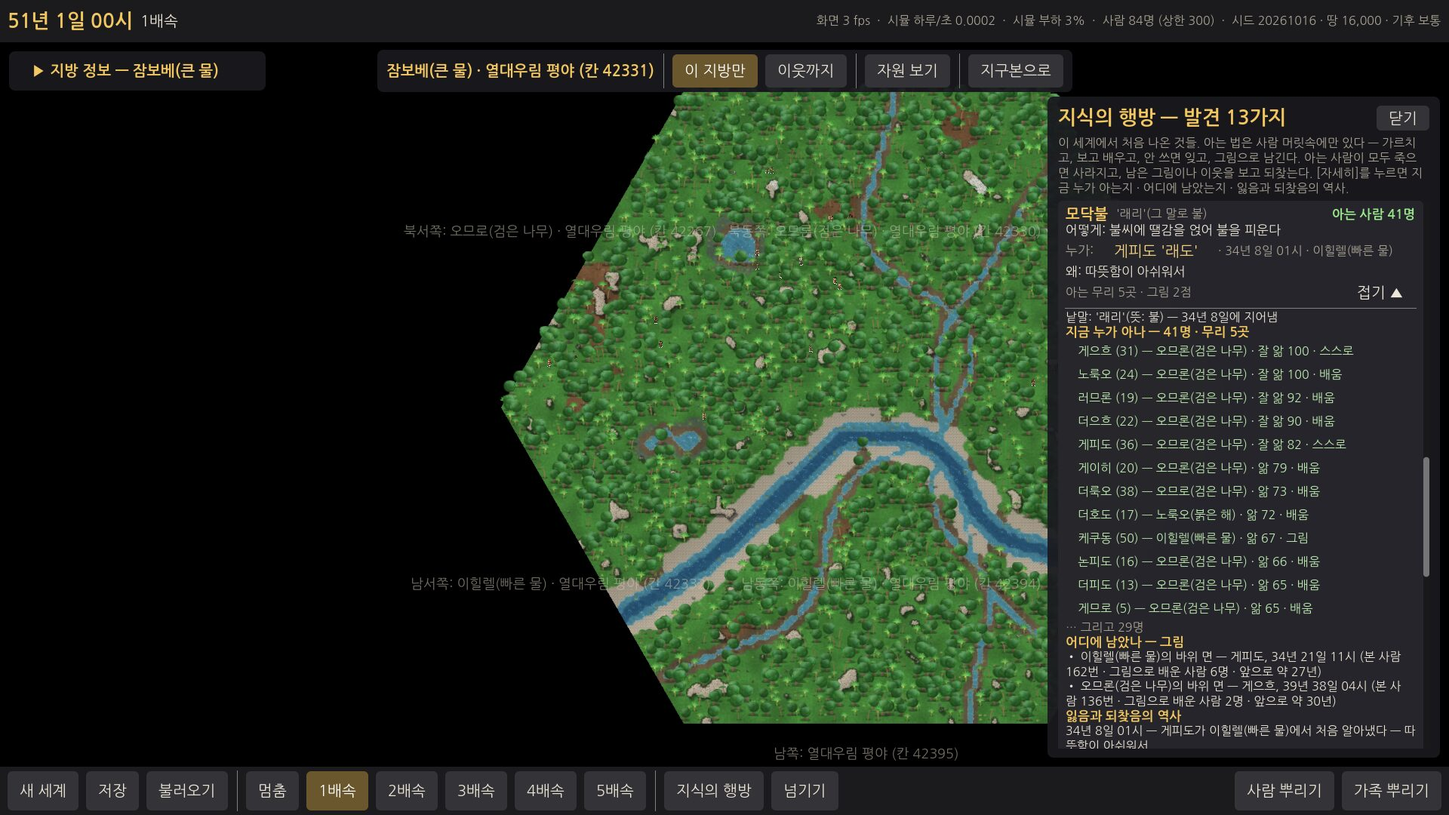
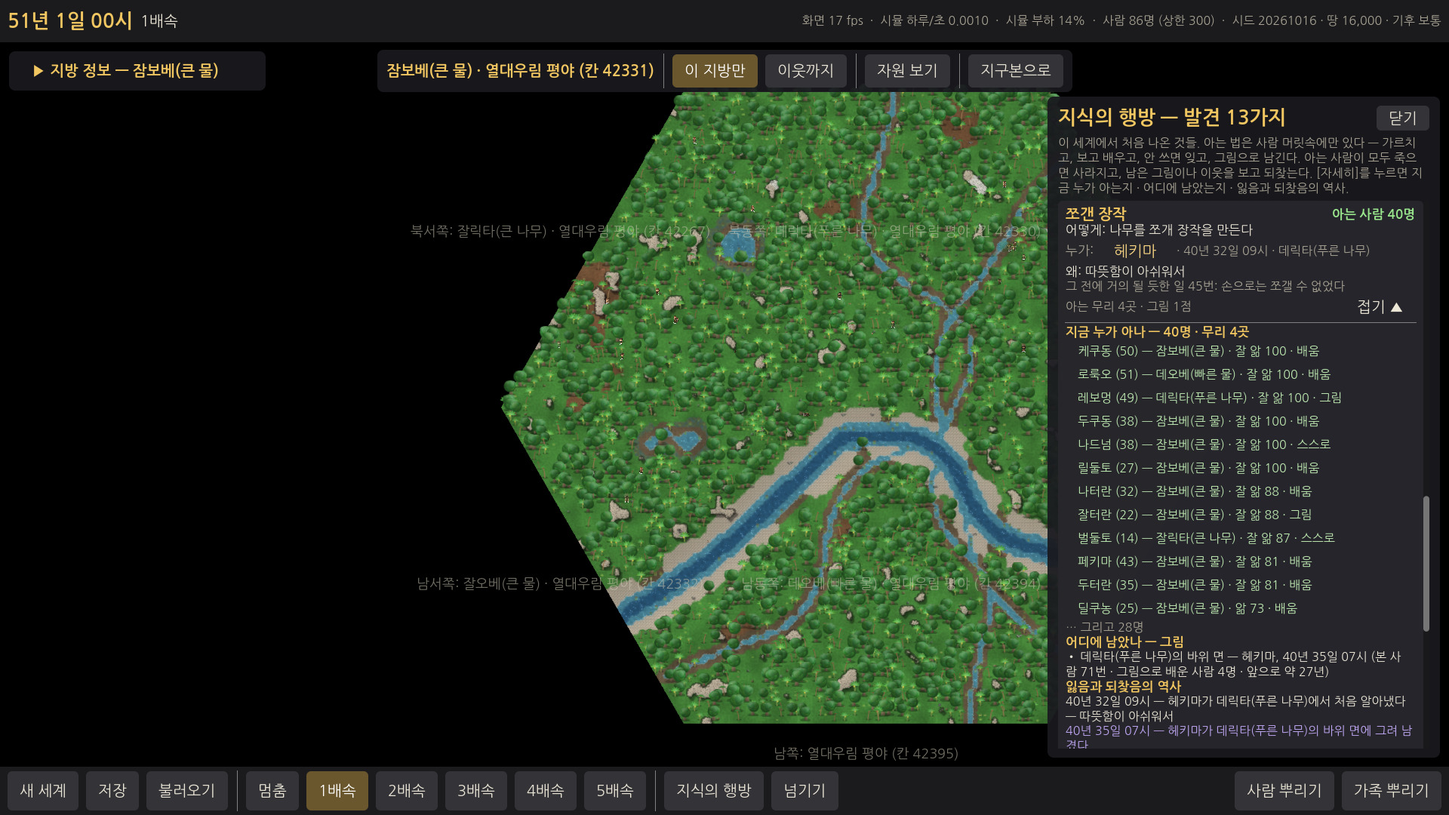
E5 두 번째 판: 보고서 · 고치기 전/뒤 측정(시드 4개) · 구리 마을 측정 · 장면 다시 만듦 · 스크린샷 · 읽어보기
Claude-Session: https://claude.ai/code/session_0154FNMyeDaocQUXgkpaLpys

diff --git a/tools/bench/SceneBench.cs b/tools/bench/SceneBench.cs
@@ -55,7 +55,7 @@ public static class SceneBench
         if (fire > 0) Save("first-fire.wtw", "첫 불 직전", "따뜻한 숲의 세 가족 — 이틀 뒤에 누군가 처음으로 모닥불을 피운다. 1배속으로 지켜보세요", fire - 2 * GameTime.TicksPerDay);
         long pot = FirstTick("pot", 150);
         if (pot > 0) Save("first-pot.wtw", "첫 토기 직전", "이틀 뒤에 누군가 처음으로 진흙 그릇을 불에 구워 토기를 만든다", pot - 2 * GameTime.TicksPerDay);
-        Save("village-50y.wtw", "50년 뒤 마을", "세 가족이 50년을 산 뒤의 마을 — 가르치고 · 배우고 · 그림으로 남기는 모습. [지식의 행방] 창과 카드의 [지식]을 보세요", 50 * GameTime.TicksPerYear);
+        Save("village-50y.wtw", "50년 뒤 마을", "세 가족이 50년을 산 뒤의 마을 — 가르치고 · 배우는 모습. [지식의 행방] 창과 카드의 [지식]을 보세요", 50 * GameTime.TicksPerYear);
         }
         if (!onlyArtisan) CopperScene(outDir, seed, index);
         // (E5) 마지막 장인이 늙음: 세계에서 그 법을 아는 사람이 셋 이하이고 모두 45살 넘은 때 가운데 가장 "끊기기 쉬운" 때

diff --git a/docs/reports/E5.md b/docs/reports/E5.md
@@ -1,18 +1,64 @@
-# E5 지식 — 보고서
+# E5 지식 — 보고서 (두 번째 판)
 
 ## 쉬운 말 다섯 줄
 1. **아는 법은 이제 사람 머릿속에만 있습니다.** 아는 사람이 아이 · 가족 · 물어 온 사람에게 가르치고(한 번에 다 못 배우고 조금씩 쌓임), 곁에서 보고 따라 하기도 합니다. **말이 다르면 가르치기가 느려집니다**(막지는 않음).
-2. **오래 안 쓰면 흐려지고 결국 잊습니다**(2년 넘게 안 쓰면 흐려지기 시작, 늙으면 조금씩). 흐려지면 실패가 잦고, 다시 쓰거나 남에게 배우면 되살아납니다.
-3. **그림으로 남깁니다.** 나이 든 장인 · 무리에서 혼자 아는 사람은 숯 · 재 · 진흙으로 동굴 벽 · 바위 면 · 나무껍질에 그림을 그립니다. 그림은 말을 몰라도 조금은 알아봐서, **아는 사람이 다 죽어도 그림을 보고 되찾을 수 있습니다.**
+2. **오래 안 쓰면 흐려지고 결국 잊습니다** — **쉬운 법(불씨 · 마른 풀 · 장작 …)은 천천히, 어려운 법(구리)은 빨리.** 잊음이 절반 가까이 줄고, "잊어서 세계에서 사라짐"은 7번 → 0번(시드 4개 × 200년).
+3. **그림은 드물고 귀합니다.** 지식이 위태로울 때(늙은 장인 · 무리에서 혼자 아는 사람, 세계에서도 아는 사람이 아주 적을 때)만 숯 · 재 · 진흙으로 동굴 벽 · 바위 면에 그립니다(세계마다 200년에 10점 남짓). 그림은 말을 몰라도 알아봐서, 아는 사람이 다 죽어도 그림을 보고 되찾을 수 있습니다.
 4. **[지식의 행방] 창**(아래 막대, D 키)에서 발견마다 지금 누가 아는지(무리 · 아는 정도) · 어디에 그림이 남았는지 · 언제 어디서 끊기고 어떻게 되찾았는지를 봅니다. 지구본 **[지식] 지도**(I 키)는 그걸 아는 사람이 사는 땅을 금빛으로 칠합니다.
-5. 측정(시드 20개 중앙값): 무리에서 한 사람만 아는 법 **9.9%**(목표 ~17%) · 무리에서 끊긴 것을 되찾음 **59%**(목표 ~58%) · 되찾기까지 **2.4년**(목표 3년). **구리는 여전히 0/20** 입니다(억지로 맞추지 않음).
+5. 새 시험용 장면 **"구리 광맥 곁 마을"**(불 · 토기를 아는 세 가족)에서도 200년 동안 **구리는 0/4** — 한 번도 녹여 보지 않았습니다("반짝이는 돌" 바람이 드묾). 무리 단위 끊김 · 되찾음 알림은 ★(그 지방을 볼 때만)로 내렸습니다.
 
 ## 해 볼 것
-1. zip 을 풀고 **`WTW.exe`** 를 실행합니다. "PC 보호" 경고가 뜨면 **"추가 정보 → 실행"**. **[불러오기] → "마지막 장인이 늙음"** → 아래 **[넘기기] → 지식 · "세계에서 사라짐"** 을 누르고 기다려 보세요. 끝나면 "그동안 일어난 일"에 무엇이 사라졌는지(죽음 때문인지 · 잊어서인지 · 그림이 남았는지) 나옵니다.
+0. **(두 번째 판)** [불러오기] → **"구리 광맥 곁 마을"** → 땅에 들어가 초록빛 구리 광맥과 사람들을 보고, [넘기기] → 고른 물건 · 구리 덩이(1000년이 한도라 오래 걸리면 [그만]).
+1. zip 을 풀고 **`WTW.exe`** 를 실행합니다. "PC 보호" 경고가 뜨면 **"추가 정보 → 실행"**. **[불러오기] → "마지막 장인이 늙음"** → 아래 **[넘기기] → 지식 · "무리에서 끊김"**. 끝나면 [지식의 행방] 창에서 그 법의 "잃음과 되찾음의 역사"를 보세요. ("세계에서 사라짐"은 이제 잊음이 줄어 아주 오래 걸릴 수 있습니다 — [그만]으로 멈출 수 있음)
 2. 아래 **[지식의 행방]** → 발견 하나의 **[자세히 ▼]** → 지금 누가 아는지 · 그림이 어디 남았는지 · 잃음과 되찾음의 역사. 맨 아래 **[지구본 [지식] 지도로 보기]**.
 3. **[불러오기] → "50년 뒤 마을"** → 땅에 들어가 사람들 머리 위 표시를 보세요(손짓 = 가르치는 중, 물음표 = 배우는 중, 눈 = 그림을 보는 중). 가르치는 사람을 누르면 카드에 "왜"(아이라서 · 무리에 아는 사람이 적어서 · 물어 와서). 바위 곁의 **작은 그림**을 누르면 무엇을 그린 것 같은지 · 누가 · 언제.
 4. 지구본에서 **[지식]**(I) → 왼쪽 아래에서 발견(모닥불 · 토기 …)을 골라 아는 땅이 어디까지 퍼졌는지.
 5. (확인 부탁) [넘기기]가 끝난 뒤 지구본에서 **사람이 다 떠난 칸에 사람 표시가 남지 않는지** 봐 주세요(고친 버그).
+
+## 두 번째 판 — 요청 5가지를 고친 것 (2026-10-19)
+
+| # | 요청 | 고친 것 | 결과(시드 4개 × 따뜻한 땅 200년, 고치기 전 → 뒤) |
+|---|---|---|---|
+| 1 | 모닥불 낱말 '래리'가 위에는 "불", 아래에는 "물" | **틀린 곳은 없었다** — 두 줄이 같은 값(뜻 = "불")을 쓴다. 스크린샷을 크게 보면 둘 다 "불"인데, JPG 로 줄이며 작은 글씨의 "불"이 "물"처럼 뭉개졌다. 그래도 글씨를 한 단계 키웠고(아래 낱말 줄 +2), **낱말의 뜻이 어디서나 같은지 확인하는 테스트**를 넣었다([지식의 행방] 위 줄 · 펼친 줄 · 카드의 새 낱말 · 가르칠 때 말풍선 — 모두 "불", 토기는 다른 뜻) | 테스트 통과 |
+| 2 | 무리 단위 끊김 · 되찾음 알림을 ★ 로 | ★(그 지방을 볼 때만 · 오른쪽 아래 표시 "★ ✕" / "★"). [지식의 행방] 창의 "잃음과 되찾음의 역사"에는 그대로 다 남는다. 넘기기 끝 요약에는 수만 센다 | ★★ 200년에 1,536번(중앙값, 첫 판) → 이제 ★★ 는 154번 |
+| 3 | 쉬운 법은 천천히, 어려운 법은 빨리 잊게 | 법의 **단계 수**(재료 하나 + 둘째 재료 + 도구 + 불 세기 + "너무 ~하면 안 됨")로 나눔. **쉬움(2단계 이하 — 불씨 · 모닥불 · 마른 풀 · 장작 · 끈 · 그릇 빚기 · 돌칼 …)**: 4년 안 쓰면 흐려지기 시작, 엿새에 1, 늙어서 열엿새에 1 더. **보통(3 — 토기 굽기 · 숯 · 익히기 …)**: 그대로(2년 · 사흘 · 여드레). **어려움(4 이상 — 구리)**: 1년 반 · 이틀 · 닷새 | **잊음 81,262 → 45,059번**(시드 중앙값 21,301 → 11,440) · **잊어서 세계에서 사라짐 7번 → 0번**(세계에서 사라짐 12 → 0) |
+| 4 | 그림은 드물고 귀하게 · 보고 배우는 힘은 조금 세게 | 그림의 대부분(첫 판 120년 84점 중 80점)이 **호기심 많은 사람이 "아무 바람이나" 해 보는 실험에서 "남겨 두기"가 뽑혀** 생긴 것이었다 → 남길 까닭이 있을 때만. 그리는 까닭은 **지식이 위태로울 때만**: 늙은 장인(무리에 둘 이하 · 세계에 다섯 이하) · 무리에서 혼자 앎(세계에 셋 이하, 마흔 넘음). 아는 법으로 그릴 때는 **동굴 벽 · 바위 면만**(나무껍질은 늙은 장인이 다른 데가 없을 때만). 한 사람은 10년에 한 번, **같은 땅에서 같은 것은 40년에 한 번**(무리가 바뀌거나 그림이 바래도 기억). 그림을 보고 배우는 양 **6 → 12**(+ 영리함), 이틀에 한 번 | **그림 2,489 → 42점**(세계마다 600 → 10점) · 그림으로 다 배움 7,256 → 429명 · **"그림으로 되찾음" 3% → 0%** — 늘지 않았다(아래) |
+| 5 | 시험용 장면 "구리 광맥 곁 마을" · 200년에 구리가 나오나 | 구리 광맥이 드러난 따뜻한 지방을 찾아 광맥 곁(6~24타일)에 세 가족, 어른들은 처음부터 **불(부싯돌 불씨 · 모닥불) · 토기(빚기 · 말리기 · 굽기)** 를 안다. [불러오기]에 "구리 광맥 곁 마을"(시드 20261016 — 사바나, 칸 30304). 측정 도구 `people copper` | **구리 0/4** (아래) |
+
+### 4번 — "그림으로 되찾음"이 늘지 않은 까닭
+- 그림이 세계마다 10점 남짓으로 드물어지자, 무리에서 끊긴 법을 되찾을 때 그 땅에 그 그림이 있는 일이 거의 없다. 되찾음의 75% 는 **아는 사람이 옮겨 와서**(무리끼리 사람이 자주 오감), 17% 는 다른 무리 사람에게 배워서다.
+- 그림이 귀해진 대신 한 점이 하는 일은 커졌다: 그림 한 점당 "보고 다 배운 사람"이 2.9명 → **10.2명**.
+- 억지로 늘리지 않았다. 숫자 튜닝 때 "끊긴 무리 둘레의 그림을 찾아가 본다" 같은 행동을 더하면 늘 것이다.
+
+### 5번 — 구리 광맥 곁 마을, 시드 4개 × 200년 — [E5/measure-copper.md](E5/measure-copper.md)
+
+| 시드 | 지방 | 끝 인구 | 바위 캔 횟수 | 구리를 녹여 본 횟수 | 구리 광석을 든 사람(10일마다 센 합) | "반짝이는 돌" 바람 20 넘은 사람(10일마다 센 합) | 돌 화덕 | 숯 | 구리 |
+|---|---|---|---|---|---|---|---|---|---|
+| 1 | 열대우림 | 298 | 25,809 | **0** | 466 | 59 | — | — | — |
+| 2 | 사바나 | 0(멸종) | 209 | 0 | 276 | 7 | — | — | — |
+| 3 | 초원 | 0(멸종) | 150 | 0 | 39 | 4 | 32년 | — | — |
+| 4 | 열대우림 | 209 | 12,513 | 0 | 28 | 237 | 182년 | — | — |
+
+- **구리는 0/4 — 한 번도 녹여 보지조차 않았다.** 구리를 녹이는 실험은 "반짝이는 돌" 바람에서만 나오는데, 그 바람이 20을 넘는 사람이 200년 동안 10일마다 센 합으로 4~237명(셈 8,000번 중)뿐이고, 그때 구리 광석을 들고 불 곁에 있는 일이 없었다. 숯도 나오지 않았다(따뜻한 땅이라 불을 가둘 까닭이 약함).
+- 두 곳(사바나 · 초원)은 1~2년 안에 멸종했다 — 광맥 곁 자리가 물에서 멀었던 것 같다(장면을 고를 때 물 가까이도 함께 보게 할 것).
+- 측정하다 **버그 하나를 찾아 고쳤다**: 불이 필요한 실험(익히기 · 녹이기)인데 근처에 불이 없으면, 불 피우는 법을 아는 사람도 불을 피우지 않고 "불을 얻는 실험"부터 다시 했다 → 이제 아는 사람은 불부터 피운다. (이 시드들의 결과는 바뀌지 않았다.)
+- 다음에(튜닝): "반짝이는 돌" 바람이 광맥을 보거나 캘 때 더 오래 남게, 녹이기를 시도할 까닭(광석을 들고 불 곁에 있을 때) 늘리기.
+
+### 시드 4개 × 200년 — 고치기 전 → 뒤 전체 — [고치기 전](E5/measure-fix-before.md) · [고친 뒤](E5/measure-fix-discover.md)
+
+| | 고치기 전 | 고친 뒤 | 목표 |
+|---|---|---|---|
+| 무리에서 한 사람만 아는 법(시드 중앙값) | 10.9% | **14.5%** | ~17% |
+| 무리에서 끊긴 것을 되찾음 | 60% | 54% | ~58% |
+| 되찾기까지(중앙값) | 2.9년 | 2.2년 | 3년 |
+| 잊음 | 81,262 | **45,059** | |
+| 세계에서 사라짐(그중 잊어서) | 12(7) | **0(0)** | |
+| 그림 · 그림 보기 · 그림으로 다 배움 | 2,489 · 39만 · 7,256 | **42 · 6,926 · 429** | |
+| 되찾은 길: 옮겨 옴 · 다른 무리 · 다시 발견 · 그림 | 65 · 17 · 15 · 3% | 75 · 17 · 8 · 0% | |
+| 모닥불 · 구운 토기 · 돌 화덕(곳 / 4) | 19.5년 · 63년 · 136년(3) | 14년 · 76년 · 106.5년(2) | ~20 · ~80년 |
+| 사람 하루당 | 376µs | 383µs | |
+
+(이 측정은 시드 4개 · 짧게. 위 "측정 결과"의 시드 20개 숫자는 첫 판 코드의 것이다.)
 
 ---
 
@@ -58,12 +104,13 @@
 - **"장면을 불러왔습니다" 알림 겹침** — 알림 자리를 지방 단추 줄의 실제 아래로(뒤늦게 나타나도 다시 잡음). [지식의 행방] 창도 지방 단추 줄 아래로.
 - **버그: 사람이 다 떠난 칸에 지구본 사람 표시가 남음** — `GlobeView.SetPeople` 이 남는 표시판의 칸 번호를 −1 로 지우게 고쳤습니다. **자동 확인**: 화면 자동 조종이 끝날 때마다 "표시판이 붙은 칸 = 지금 사람이 사는 칸"을 확인해 `MARKERCHECK ok/FAIL` 을 찍습니다 — 넘기기 뒤(50년 마을 → 10년 · 마지막 장인 → 9년) 모두 ok. 넘기기가 끝나면 **넘기기 직전에 보던 화면만** 다시 켭니다(`VIEW globe=True province=False`).
 
-### 7. 테스트 (빠른 테스트 130개, 약 25초 — 새로 5개: `sim.tests/KnowledgeTests.cs`)
+### 7. 테스트 (빠른 테스트 132개, 약 25초 — 새로 7개: `sim.tests/KnowledgeTests.cs`)
 - 가르치면 조금씩 쌓이고 **말이 다르면 느림**(알아듣기에 따라) · 거듭 가르치면 알고 누구에게 배웠는지 남음
 - **안 쓰면 흐려지고 다시 쓰면 되살아남** · 아주 흐려지면 잊음 · 남에게 배우면 되살아남
 - **아는 사람이 다 죽어도 그림이 있으면 그림을 본 사람이 되찾음**(느리게, 말과 상관없이) · "세계에서 사라짐" 알림에 그림이 남았다고
 - **무리 단위 끊김(20일) · 되찾음 · 역사**가 기록됨
 - 같은 시드 → 같은 결과 · **저장 → 불러오기 → 계속**(배우는 중 · 흐려진 것 · 그림 포함)이 끊김 없음
+- (두 번째 판) **쉬운 법이 어려운 법보다 천천히 잊힘** · **낱말의 뜻이 어디서나 같음**
 - 저장 버전 8(버전 1~7 파일도 읽음 — 7 이하의 아는 법은 처음 알 때의 정도로)
 
 ---
@@ -140,14 +187,15 @@
 - **39% 느려졌다.** 늘어난 일: 수업(사흘에 한 번 · 걸어가 함께 한 시간), 그림 보기, 날마다 무리마다 아는 법 세기, 이야기 · 수업 끝의 단서 나눔. 셈으로는 5배속(하루 2.7개/초) · 300명에서 시뮬 스레드 약 50% — 아직 여유는 있지만 줄어들었다(윈도우 PC 에서 확인 부탁). 더 줄이려면: 무리 셈을 바뀐 지방만 · 그림 보기 · 수업 판단을 덜 자주, 지방마다 CPU(E8).
 
 ## 스크린샷 (`docs/reports/E5/`, 가상 화면 — 그래픽 카드 없음)
-- `teach-card.jpg` — "50년 뒤 마을": 가르치는 사람(아룩오 — 말풍선 '룰누'(그 말로 '날'))과 곁의 배우는 사람(오피도), 카드 "오피도에게 깬 돌 날을 만드는 법을 가르치는 중 — 왜: 오피도가 알던 것을 잊어 가서 — 다시 일러 준다". 아래쪽에 물음표(배우는 중) 표시.
-- `card-knowledge.jpg` — 같은 사람의 카드 [지식]: 바람 막대 · 아는 것 5가지(아는 정도 "잘 앎 95 · 앎 66 · 흐려짐 54", 누구에게 배웠나, "5년 안 씀") · 배우는 중 3가지(68% · 62% · 31%, 누구를 보며/누구에게) · 단서.
-- `painting.jpg` — 바위 면의 벽 그림(손잡이 단 돌도끼 — 도끼 모양)과 정보 창: 무엇을 그린 것 같은지 · 누가 · 어디 · 앞으로 약 41년 · 본 사람. 오른쪽 아래 무리 단위 알림("○○의 무리에서 찍개가 끊겼습니다", "… 찍개를 되찾았습니다 — 아는 포피도가 옮겨 왔다").
-- `knowledge-window.jpg` — [지식의 행방] 창, "모닥불"을 펼침: 낱말 '래리'(34년에 지어냄) · 지금 아는 사람 41명 · 무리 5곳(이름 · 나이 · 땅 · 아는 정도 · 스스로/배움/그림) · 그림 2점(본 사람 162번 · 그림으로 배운 사람 6명) · 잃음과 되찾음의 역사.
-- `knowledge-map.jpg` — 지구본 [지식] 지도("모닥불"): 아는 사람이 많은 칸일수록 밝은 금빛, 아무도 모르는 칸은 어두운 회색, 왼쪽 범례에서 발견 고르기, 칸 정보의 "아는 법 — 무엇을 몇 명이".
-- `skip-lost.jpg` — "마지막 장인이 늙음"에서 [넘기기] → 세계에서 사라짐: 37년 뒤 "손잡이 단 돌도끼 만드는 법이 세계에서 사라졌습니다"(그동안 세계에서 처음 3가지 — 엮은 바구니 · 손잡이 단 돌도끼 · 찍개).
-- 넘기기가 끝날 때마다 자동 확인 `MARKERCHECK ok`(지구본 사람 표시 = 사람 사는 칸) · `VIEW`(넘기기 전 화면만 켜짐)를 찍었다 — 6번 모두 ok.
-- 동굴 벽 그림은 찍지 못했다(아래 "알려진 문제").
+두 번째 판에서 다시 찍은 것:
+- `teach-card.jpg` — "50년 뒤 마을": 가르치는 사람(나드넘 — 말풍선 '키티노'(그 말로 '그릇'))과 곁의 배우는 사람, 카드 "버드넘에게 마른 그릇을 만드는 법을 가르치는 중 — 왜: 버드넘이 알던 것을 잊어 가서 — 다시 일러 준다".
+- `knowledge-window.jpg` — [지식의 행방] 창, "쪼갠 장작"을 펼침: 아는 사람 40명 · 무리 4곳(이름 · 나이 · 땅 · 아는 정도 · 스스로/배움/그림) · 그림 1점(본 사람 71번 · 그림으로 배운 사람 4명) · 잃음과 되찾음의 역사(처음 알아냄 → 사흘 뒤 바위 면에 그려 남김).
+- `knowledge-map.jpg` — 지구본 [지식] 지도: 아는 사람이 많은 칸일수록 밝은 금빛, 범례에서 발견 고르기, 칸 정보의 "아는 법".
+- `copper-village.jpg` — **새 시험용 장면 "구리 광맥 곁 마을"**: 사바나 고원(칸 30304)의 초록빛 구리 광맥(가운데 왼쪽) 곁 세 가족 11명, 오른쪽 아래 강.
+- `skip-grouplost.jpg` — "마지막 장인이 늙음"에서 [넘기기] → 지식 · "무리에서 끊김": 넘기기 요약에 "★ 무리에서 끊김 1번"(★ 로 내려감).
+첫 판의 것(고치기 전 코드):
+- `card-knowledge.jpg` — 카드 [지식]: 아는 정도 · 배우는 중 · 단서. `painting.jpg` — 바위 면의 벽 그림(도끼)과 정보 창(두 번째 판에서는 그림이 드물어 시험 장면 둘레에서 찾지 못했다). `skip-lost.jpg` — 넘기기 → 세계에서 사라짐(두 번째 판에서는 잊음이 줄어 이 장면에서 30분 넘게 넘겨도 사라지지 않았다).
+- 넘기기가 끝날 때마다 자동 확인 `MARKERCHECK ok`(지구본 사람 표시 = 사람 사는 칸)를 찍었다 — 모두 ok.
 
 ## 기획과 다르게 한 것 / 이유
 - **속성 "묻어난다"(`stains`) · 행동 "그리기" · 바람 "남겨 두기" · 아이템 "벽 그림"을 더함** — 그림 그리기를 E4 의 규칙 체계(속성 × 행동)로 발견하게 하려고(기획서가 허락한 "필요한 속성은 추측해서").
@@ -159,13 +207,10 @@
 - **"마지막 장인이 늙음" 장면** — 시험 장면 세계(따뜻한 숲 세 가족, 시드 20261016)에서는 **"세계에서 혼자 아는 60살 넘은 사람"이 150년 동안 한 번도 없었다**(가르치기로 지식이 빨리 퍼지고 60살 넘게 사는 사람이 드물다). 그래서 "세계에서 아는 사람이 셋 이하이고 모두 45살 넘은 때 가운데 가장 끊기기 쉬운 때"를 골랐다 — 50년째, 쪼갠 장작을 51살 로룩오 한 명만 안다(그림 없음). 억지로 만든 장면이 아니라 찾은 장면이다. 이 장면에서 넘기면 장작이 아니라 37년 뒤 **손잡이 단 돌도끼가 먼저 사라진다** (장작을 아는 사람이 그사이 어떻게 됐는지는 [지식의 행방] 창에서 볼 수 있다).
 
 ## 알려진 문제 · 다음 단계에 넘길 것
-- **그림이 많다** — 한 세계 200년에 약 500점(무리 수 × 법 수만큼, 같은 무리는 같은 것을 20년에 한 번). 나무껍질 그림은 몇 해면 바래 사라지지만, 지방 화면에 그림이 여럿 보일 수 있다. 그림 보기도 계산의 한몫. 숫자 튜닝 때 "중요한 법만 · 동굴 · 바위가 있을 때만" 등으로 줄일 수 있다.
-- **속도 626µs**(E4 450µs) — 위 "속도". E8(지방마다 CPU) 전에 무리 셈 · 수업 판단을 덜 자주 하는 것을 먼저 해 볼 만하다.
-- **잊음이 잦다**(20시드 × 200년에 34만 번) — 2년 넘게 안 쓰면 흐려지는데, 불씨 · 마른 풀 · 장작처럼 가끔만 쓰는 법이 많다. "마지막 장인" 장면에서도 9년 만에 마른 풀이 잊혀 세계에서 사라졌다. 흐려지는 빠르기는 추측값 — 튜닝 때.
-- **한 사람만 아는 법 9.9%**(목표 ~17%) — 가르치기가 잘 퍼뜨린다. 튜닝 때 가르치는 빈도 · 빠르기로 맞춘다.
-- **구리 0/20** — 숯이 한 곳에서만 나온다. 다음 단계(E5b 동물과 농사)와 상관없이, 튜닝 때 "반짝이는 돌" 바람 · 숯 만드는 까닭을 늘려 볼 것.
-- **말이 다른 무리 사이의 가르치기**는 측정 세계에서 드물다(평균 알아듣기 96% — 한 말에서 퍼진 무리들). 말이 다르면 느린 것은 테스트로만 확인했다. 여러 곳에 따로 뿌린 세계에서 다시 볼 것.
-- **동굴 벽 그림 스크린샷이 없다** — 시험 세계의 첫 마을 둘레에 열린 동굴이 없어 그림이 모두 바위 면이다(동굴이 있으면 동굴을 먼저 고른다).
-- **"마지막 장인이 늙음" 장면** — "세계에서 혼자 아는 60살 넘은 사람"은 150년 동안 없어서 "셋 이하 · 모두 45살 넘음" 가운데 골랐다(위 "기획과 다르게"). 장면의 장인(로룩오, 51살)보다 다른 법이 먼저 사라진다. 시뮬이 바뀌면 `people scenes` 로 다시 만든다. **"첫 토기 직전" 장면은 빠졌다** — 이 시드에서 150년 안에 토기가 나오지 않았다.
-- 측정 뒤에 "무리에서 끊김 · 되찾음" 알림을 한 무리 · 하루에 하나로 묶었다 — 측정표의 ★★ 개수(200년에 1,536번, 중앙값)는 묶기 전 숫자다(시뮬 결과에는 영향 없음).
-- 알림 표시 크기(★★)는 무리 단위가 많아 오른쪽 아래 알림이 바쁠 수 있다 — 끊김 · 되찾음을 ★ 로 내릴지 사용자 의견을 듣고 싶다.
+- (두 번째 판) **그림으로 되찾음 0%** — 그림이 드물어져(세계마다 10점 남짓) 끊긴 무리 곁에 그 그림이 있는 일이 거의 없다. 튜닝 때 "끊긴 법을 찾아 둘레의 그림을 보러 간다"를 더해 볼 것.
+- (두 번째 판) **구리 0/4(구리 광맥 곁 마을에서도)** — "반짝이는 돌" 바람이 드물어 녹여 보지도 않는다. 광맥 곁 장면 두 곳은 1~2년 안에 멸종(물이 멀었던 듯).
+- **속도** — 시드 4개 측정에서 사람 하루당 383µs(사람이 적은 해가 섞임), 첫 판의 300명 측정은 626µs(E4 450µs). E8 전에 무리 셈 · 수업 판단을 덜 자주 하는 것을 먼저 해 볼 만하다.
+- **한 사람만 아는 법 14.5%**(목표 ~17%, 시드 4개) — 가르치기가 잘 퍼뜨린다.
+- **말이 다른 무리 사이의 가르치기**는 측정 세계에서 드물다(평균 알아듣기 96%). 말이 다르면 느린 것은 테스트로만 확인했다.
+- **동굴 벽 그림 스크린샷이 없다** — 시험 세계의 첫 마을 둘레에 열린 동굴이 없다.
+- **"마지막 장인이 늙음" 장면** — "세계에서 혼자 아는 60살 넘은 사람"은 150년 동안 없어서 "셋 이하 · 모두 45살 넘음" 가운데 골랐다(122년째, 엮은 바구니를 47살 다보멍 한 명만 안다). 시뮬이 바뀌면 `people scenes` 로 다시 만든다.

diff --git a/docs/reports/E5/measure-fix-discover.md b/docs/reports/E5/measure-fix-discover.md
@@ -1,11 +1,11 @@
-## (E4) 발견 측정: 시드 4개 × 따뜻한 땅 10명(가족) × 200년 (걸린 시간 1265초, 코어 2)
+## (E4) 발견 측정: 시드 4개 × 따뜻한 땅 10명(가족) × 200년 (걸린 시간 1027초, 코어 3)
 
 | 시드 | 칸 | 끝 인구 | 가장 많을 때 | 굶주림 | 목마름 | 추위 | 늙음·병 | 실험 | 거의 됨 | 알아냄 | 불 피움 | 캠 | 익힌 끼니 | 사라짐/되찾음 | 모닥불 | 깬 돌 날 | 찍개 | 끈 | 엮은 바구니 | 마른 풀 | 익힌 열매 | 익힌 버섯 | 빚은 진흙 그릇 | 마른 그릇 | 구운 토기 | 돌 화덕 | 숯 | 구리 덩이 | 초 |
 |---|---|---|---|---|---|---|---|---|---|---|---|---|---|---|---|---|---|---|---|---|---|---|---|---|---|---|---|---|---|
-| 1 | 42462(열대우림) | 294 | 300 | 20 | 14 | 0 | 483 | 375445 | 15192 | 828 | 236 | 39826 | 16678 | 0/0 | 5년 | 0년 | 26년 | 0년 | 73년 | 2년 | 24년 | 34년 | 0년 | 0년 | 34년 | — | — | — | 675 |
-| 2 | 29231(열대우림) | 297 | 300 | 6 | 4 | 0 | 461 | 170017 | 9748 | 529 | 105 | 15005 | 16237 | 0/0 | 9년 | 0년 | 49년 | 7년 | 62년 | 4년 | 82년 | 84년 | 9년 | 12년 | — | 163년 | — | — | 589 |
-| 3 | 15740(열대우림) | 289 | 300 | 0 | 0 | 0 | 268 | 214919 | 6851 | 634 | 189 | 16660 | 10469 | 0/0 | 26년 | 15년 | 28년 | 18년 | 177년 | 22년 | 76년 | 82년 | 0년 | 0년 | 76년 | — | — | — | 362 |
-| 4 | 21762(열대우림) | 293 | 300 | 0 | 28 | 0 | 491 | 129020 | 7158 | 848 | 158 | 34790 | 15535 | 0/0 | 19년 | 0년 | 39년 | 6년 | 8년 | 8년 | 53년 | 66년 | 9년 | 24년 | 103년 | 50년 | — | — | 654 |
+| 1 | 42462(열대우림) | 294 | 300 | 20 | 14 | 0 | 483 | 375445 | 15192 | 828 | 236 | 39826 | 16678 | 0/0 | 5년 | 0년 | 26년 | 0년 | 73년 | 2년 | 24년 | 34년 | 0년 | 0년 | 34년 | — | — | — | 685 |
+| 2 | 29231(열대우림) | 297 | 300 | 6 | 4 | 0 | 461 | 170017 | 9748 | 529 | 105 | 15005 | 16237 | 0/0 | 9년 | 0년 | 49년 | 7년 | 62년 | 4년 | 82년 | 84년 | 9년 | 12년 | — | 163년 | — | — | 599 |
+| 3 | 15740(열대우림) | 289 | 300 | 0 | 0 | 0 | 268 | 214919 | 6851 | 634 | 189 | 16660 | 10469 | 0/0 | 26년 | 15년 | 28년 | 18년 | 177년 | 22년 | 76년 | 82년 | 0년 | 0년 | 76년 | — | — | — | 368 |
+| 4 | 21762(열대우림) | 293 | 300 | 0 | 28 | 0 | 491 | 129020 | 7158 | 848 | 158 | 34790 | 15535 | 0/0 | 19년 | 0년 | 39년 | 6년 | 8년 | 8년 | 53년 | 66년 | 9년 | 24년 | 103년 | 50년 | — | — | 657 |
 
 | 발견 | 처음 나온 해(중앙값) | 나온 시드 | 나오지 않은 시드 | 가장 이른 · 늦은 |
 |---|---|---|---|---|
@@ -41,7 +41,7 @@
 - 사라진 발견 0 · 다시 찾아냄 0 · 실험 889,401 · 그중 거의 될 듯(새 단서) 38,949 · 같은 헛수고 344,270 · 아는 법대로 만들기 12,331,085(그중 헛손질 12,630) · 알아냄 2,839 · 보고 배움 484 · 불 피움 688 · 불씨 얻음 25 · 들불 · 번개 516 · 캠 106281 · 익힌 끼니 58,919
 - 인구(10년마다, 시드 중앙값): 9 · 23 · 33 · 37 · 56 · 79 · 111 · 154 · 219 · 288 · 298 · 297 · 295 · 293 · 273 · 294 · 298 · 299 · 296 · 297 · 0
 - (E4) 큰 일: ★★★ 22번 · ★★ 154.5번(중앙값) → 멈추는 팝업 1배속 규칙 15번 · 5배속 규칙 9.5번 (200년, 같은 날의 일은 팝업 하나, 실제 시간 30초 간격은 빼고 셈)
-- 사람 하루당 378µs
+- 사람 하루당 383µs
 - (E5) 같은 헛수고 비율 38.7% (실험 889,401 중 344,270) · 단서 나눔 3,644,304 · 단서를 보고 같은 실험을 피함 142,287
 - (E5) 수업 294,671번(평균 알아듣기 97%) · 수업으로 다 배움 73,675 · 보고 다 배움 484 · 흐려져 되살림 39,806 · 잊음 45,059 · 흐려진 헛손질 12,437
 - (E5) 세계에서 사라짐 0번 가운데 마지막으로 알던 사람이 잊어서 0번 · 잊음 시드 중앙값 11440번
